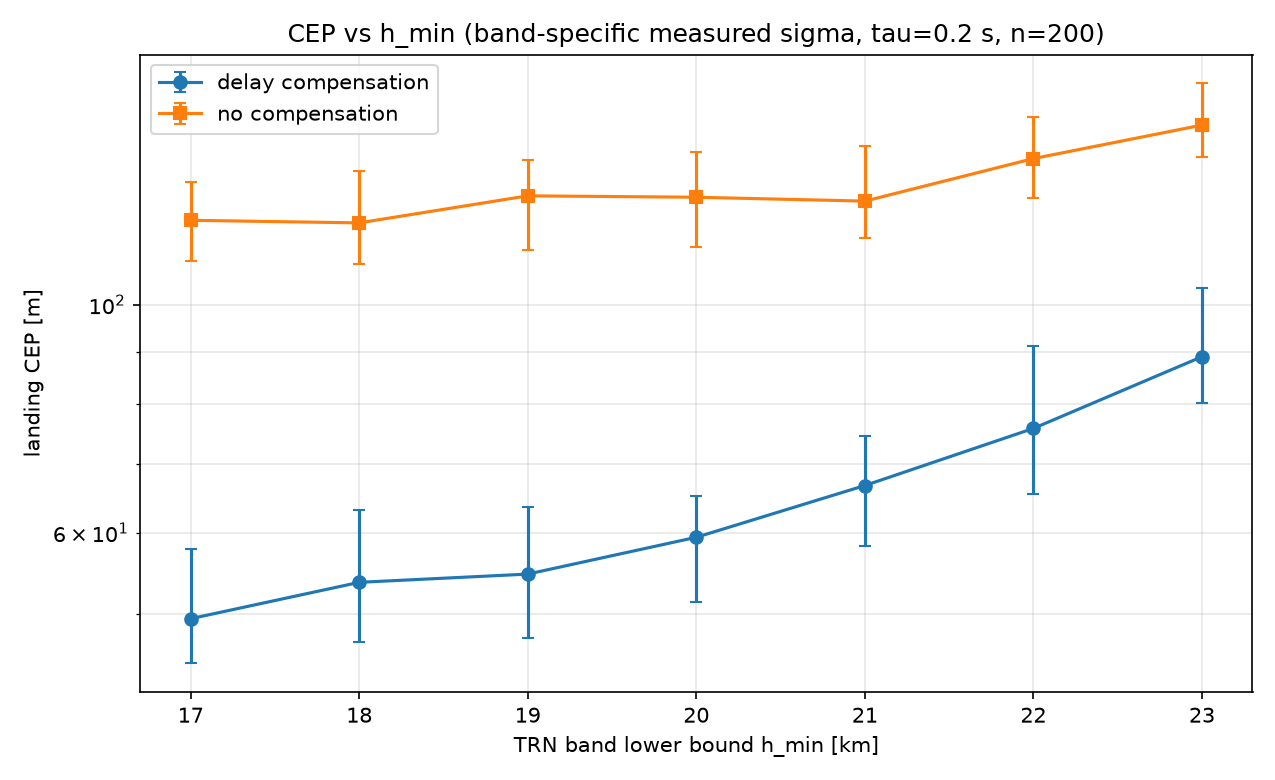
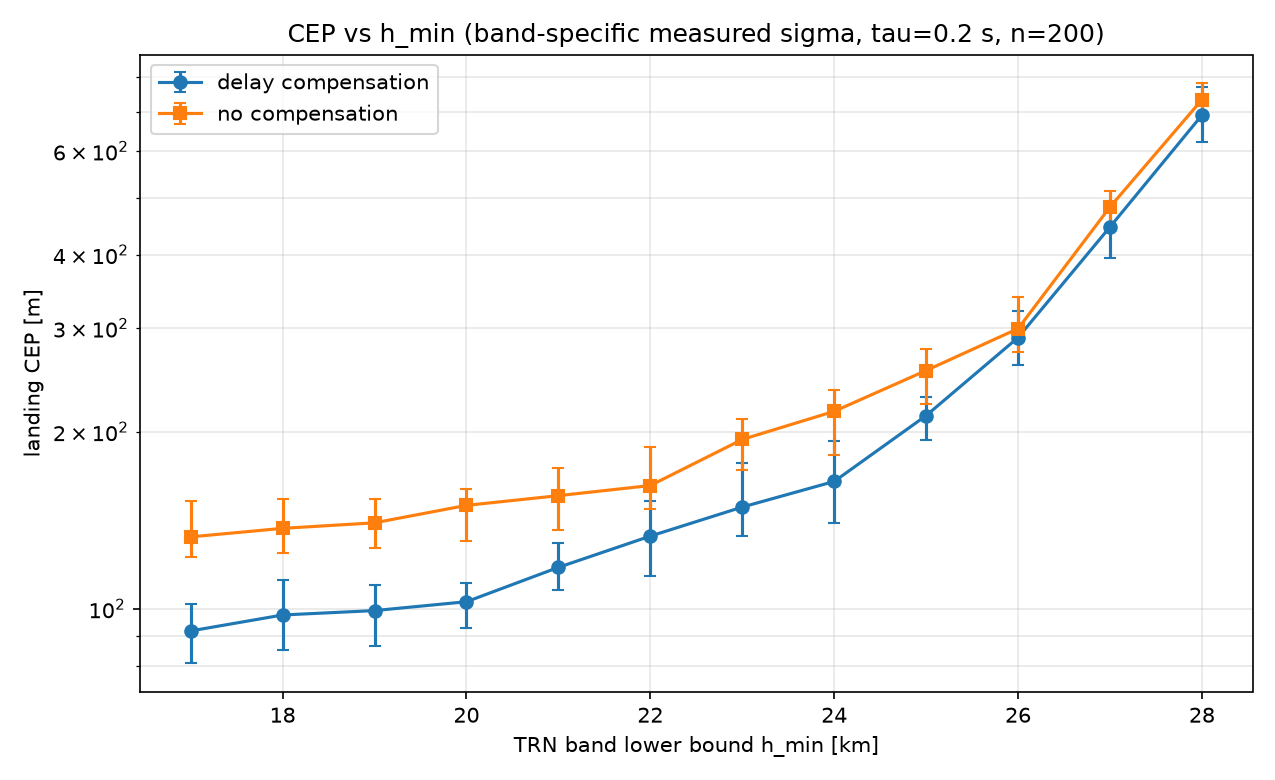
P5+: h_min 스윕 17~28 km 확장 재실행 — 상향도 단조 악화 확인, 현행 시뮬 기준으로 갱신
보상 on: 17 km 91.7 → 22 km 132.9 → 28 km 690.3 m (coast 증가 지배).
구버전(P5 시절 시뮬) 대비 절대값 상승은 P7b 개선 반영 재실행 때문.

Claude-Session: https://claude.ai/code/session_01K71fiea5fAWu6hYiG9h9E6

diff --git a/docs/STATUS.md b/docs/STATUS.md
@@ -1,5 +1,20 @@
 # STATUS
 
+## h_min 스윕 17→28 km 확장 재실행 (2026-09-07)
+
+- 질문 "23 km 위는 더 나쁜가"에 답하기 위해 sweep_hmin.py를 17~28 km 12점으로 확장
+  (τ=0.2 s, n=200/조건, 통계 MC·밴드별 iid σ). 결과: 단조 악화 확인 — 보상 on 기준
+  17 km 91.7 → 22 km 132.9 → 24 km 164.6 → 26 km 289.1 → 28 km 690.3 m (coast 구간
+  증가가 지배, 25 km부터 가속). 고 h_min에서는 측정 수 자체가 적어 보상 on/off 차이도
+  소멸(26 km: 289 vs 299).
+- 절대값이 구버전(17 km 49.5, 22 km 75.8)보다 높아진 것은 P5 이후 시뮬 개선(직렬 촬영
+  모델, 게이트 연쇄 기각 P 팽창 등)이 반영된 재실행이기 때문 — 현행 22 km 기준값이
+  보정 통계 MC 110.8 m과 같은 자릿수로 정합. 결과 파일·그림 갱신:
+  results/p5_hmin_tradeoff.json, figs/p5_hmin_tradeoff.png.
+- 해석 유지: 이 곡선은 iid 통계 관점(낮을수록 유리, 17 km 최적)이고, 실런 검증의 저고도
+  품질 붕괴(p5_sigma_vs_altitude)로 22 km 확정 — 확장분은 "위로 올려도 손해"라는 반대쪽
+  경계를 채워 22 km가 양방향 트레이드오프의 선택임을 보여준다.
+
 ## 슬라이드 · 직렬 처리 모델 관련 내용 제외 (2026-09-07)
 
 - 사용자 결정: 직렬 촬영 가정(처리 중 촬영 불가 → 드롭)은 아키텍처 조건부이므로
